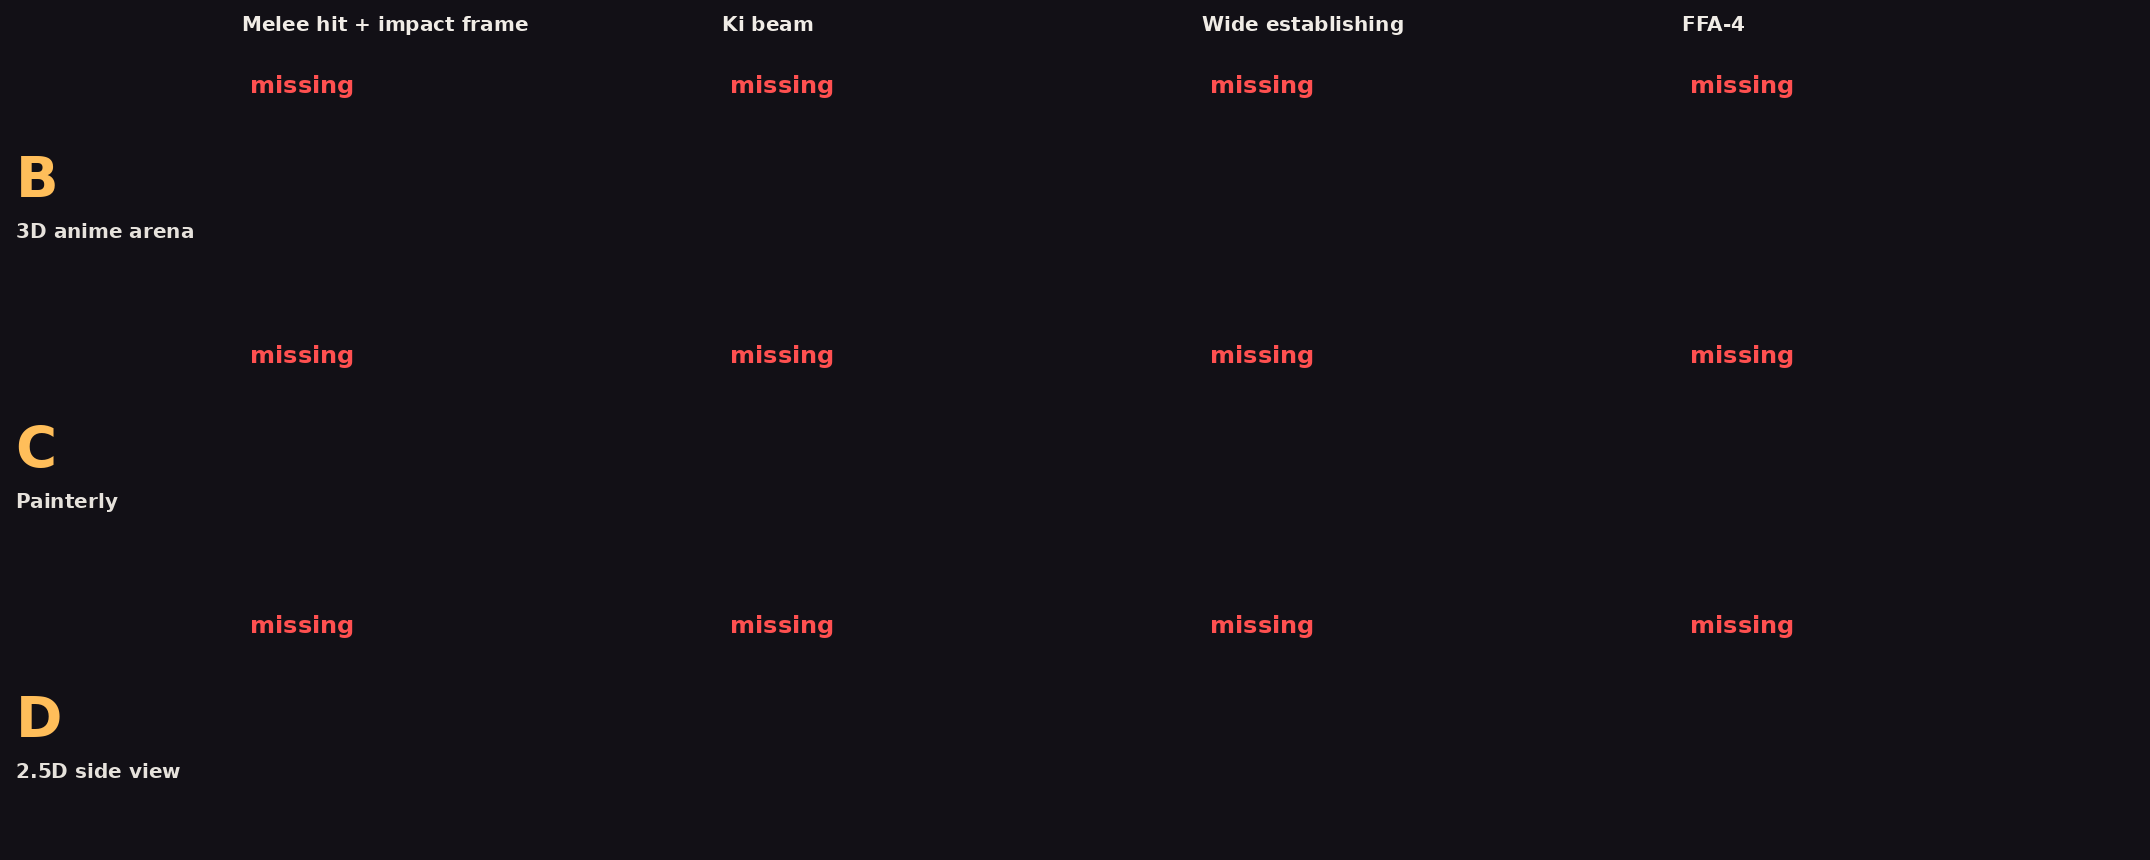
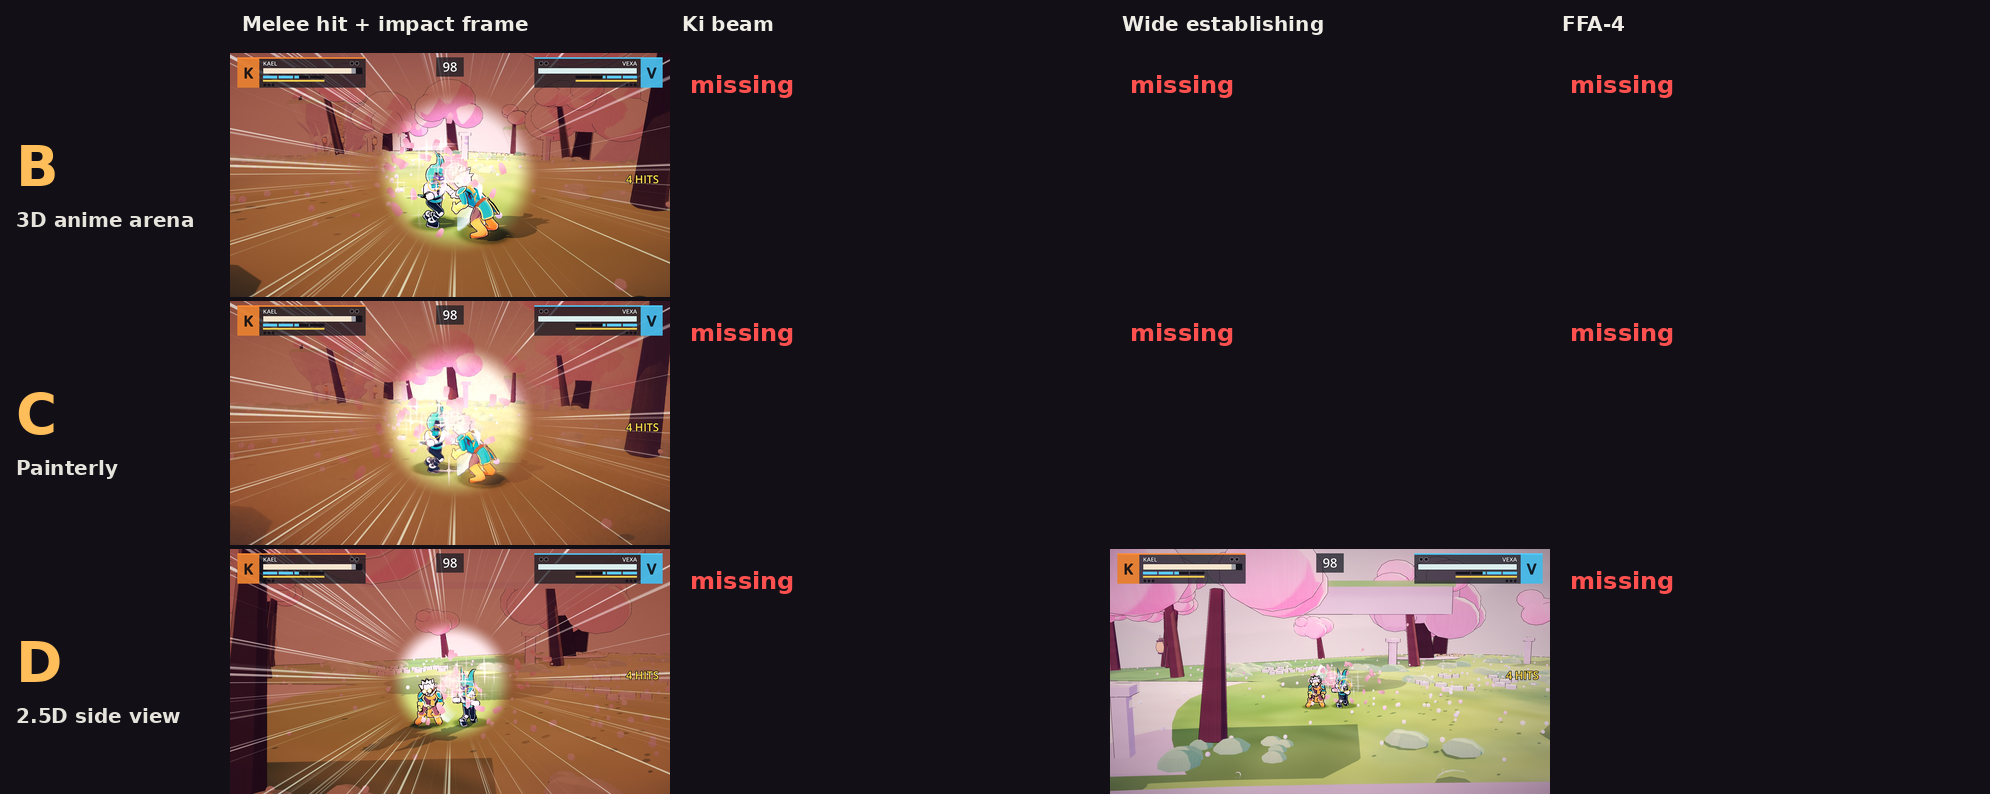
Look mockups (T-LOOK): remaining renders, COMPARE sheets and motion strips
Claude-Session: https://claude.ai/code/session_01WbnN9gvBx63k1vXBKcwwva

diff --git a/prototypes/look/tools/compose.py b/prototypes/look/tools/compose.py
@@ -19,7 +19,7 @@ def font(size):
     return ImageFont.load_default()
 
 
-def compare(zone, styles, out, tile=(480, 270)):
+def compare(zone, styles, out, tile=(440, 248)):
     label_w, head_h = 230, 50
     w = label_w + tile[0] * len(MOMENTS)
     h = head_h + tile[1] * len(styles)
